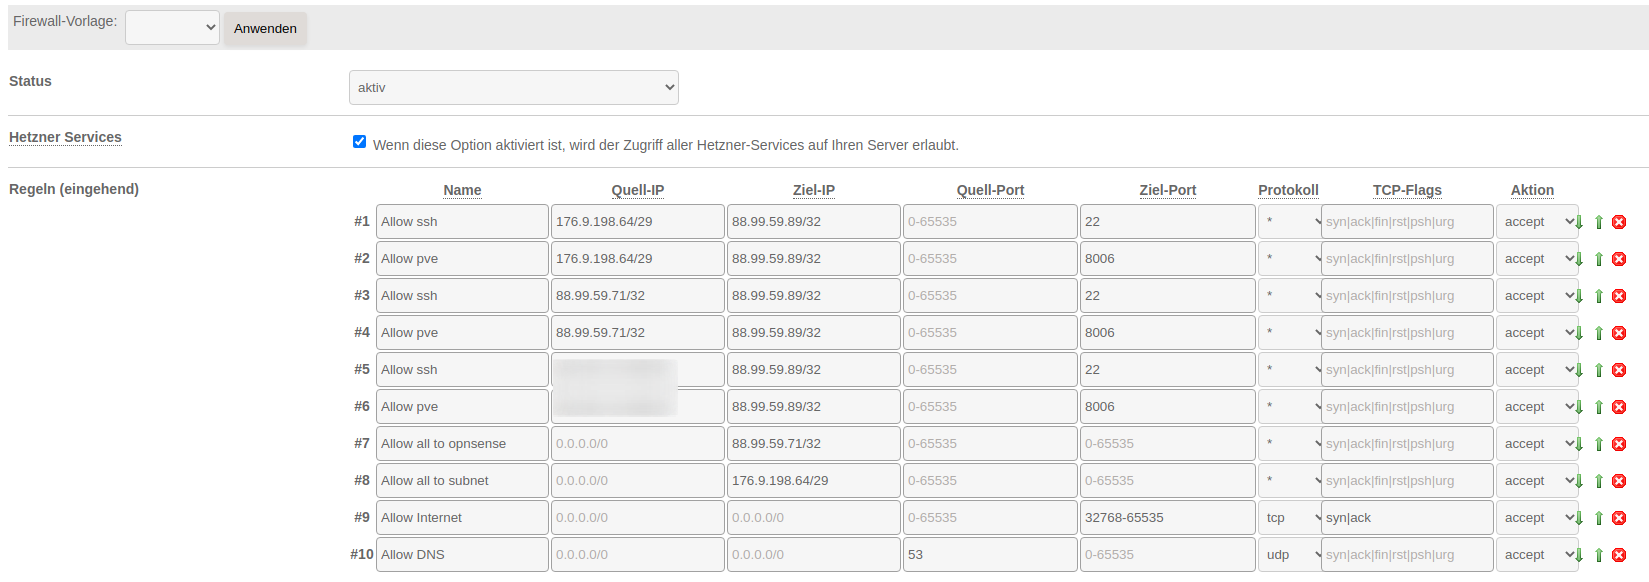
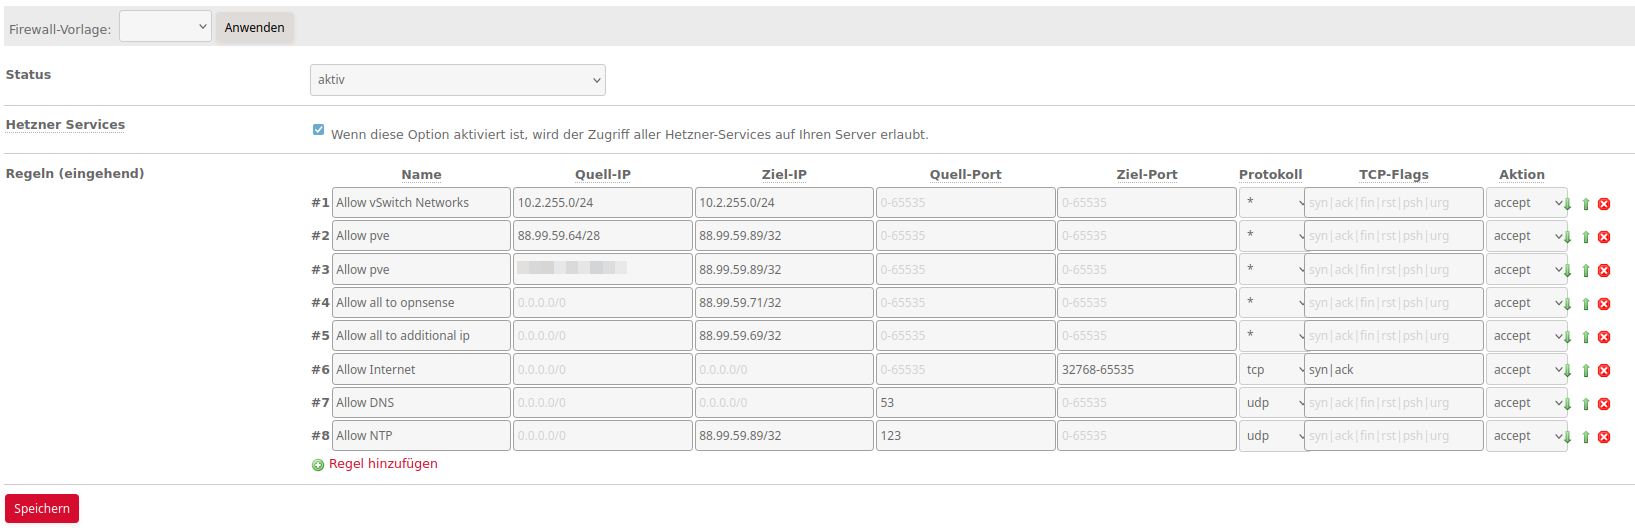
added ntp to hetzner firewall rules

diff --git a/docs_de/1._Setup/3_hetzner_firewall.md b/docs_de/1._Setup/3_hetzner_firewall.md
@@ -2,6 +2,6 @@
 Da der Host nur von Vertrauenswürdigen Adressen erreichbar sein soll, wird die Firewall im Hetzner Robot eingerichtet:
 ![Firewallregeln](../img/setup/firewall/firewall.png?raw=true){: loading=lazy }
 
-Durch die gesetzten Firewallregeln können nur noch die bestellten IP Adressen auf das Webinterface und den SSH Daemon zugreifen. Zusätzlich wurden Pakete einer weitere IPv4 Adresse erlaubt, welche genutzt wird um mit dem Host zu interagieren, falls Probleme mit der OPNsense auftreten.
+Durch die gesetzten Firewallregeln können nur noch die bestellten IP Adressen auf den Host zugreifen. Zusätzlich wurden Pakete einer weitere IPv4 Adresse erlaubt, welche genutzt wird um mit dem Host zu interagieren, falls Probleme mit der OPNsense auftreten.
 
-Regel 9 und 10 sorgen dafür, das der Host Antworten aus dem Internet erhalten kann und DNS Anfragen senden darf. [Dies ist im Hetzner Wiki beschrieben.](https://docs.hetzner.com/de/robot/dedicated-server/firewall/#ausgehende-tcp-verbindungen)
+Regel 6, 7 und 8 sorgen dafür, das der Host Antworten aus dem Internet erhalten kann und DNS sowie NTP Anfragen senden darf. [Dies ist im Hetzner Wiki beschrieben.](https://docs.hetzner.com/de/robot/dedicated-server/firewall/#ausgehende-tcp-verbindungen)

diff --git a/docs_en/1._Setup/3_hetzner_firewall.md b/docs_en/1._Setup/3_hetzner_firewall.md
@@ -2,7 +2,7 @@
 Since the host should only be accessible from trusted addresses, the firewall is set up in Hetzner Robot:
 ![Firewall rules](../img/setup/firewall/firewall.png?raw=true){: loading=lazy }
 
-Due to the set firewall rules only the ordered IP addresses can access the web interface and the SSH daemon. Additionally, packets of another IPv4 address were allowed, which is used to interact with the host in case of problems with the OPNsense.
+Due to the set firewall rules only the ordered IP addresses can access the host. Additionally, packets of another IPv4 address were allowed, which is used to interact with the host in case of problems with the OPNsense.
 
-Rules 9 and 10 ensure that the host can receive responses from the Internet and send DNS queries. [This is described in the Hetzner Wiki.](https://docs.hetzner.com/robot/dedicated-server/firewall/#out-going-tcp-connections)
+Rules 6, 7 and 8 ensure that the host can receive responses from the Internet and send DNS/NTP queries. [This is described in the Hetzner Wiki.](https://docs.hetzner.com/robot/dedicated-server/firewall/#out-going-tcp-connections)
 

diff --git a/docs_de/1._Setup/1_proxmox.md b/docs_de/1._Setup/1_proxmox.md
@@ -24,6 +24,9 @@ curl --proto '=https' --tlsv1.2 -sSf https://raw.githubusercontent.com/rickycode
 apt update
 apt upgrade -y
 apt install -y openvswitch-switch
+
+# enable time sync (NTP)
+systemctl enable --now systemd-timesyncd
 ```
 
 Die Konfiguration von ZFS kann [diesem englischen Blogeintrag](https://www.dlford.io/memory-tuning-proxmox-zfs/) entnommen werden.

diff --git a/docs_en/1._Setup/1_proxmox.md b/docs_en/1._Setup/1_proxmox.md
@@ -24,6 +24,9 @@ curl --proto '=https' --tlsv1.2 -sSf https://raw.githubusercontent.com/rickycode
 apt update
 apt upgrade -y
 apt install -y openvswitch-switch
+
+# enable time sync (ntp)
+systemctl enable --now systemd-timesyncd
 ```
 
 More information about the configuration of zfs can be found [here](https://www.dlford.io/memory-tuning-proxmox-zfs/)
